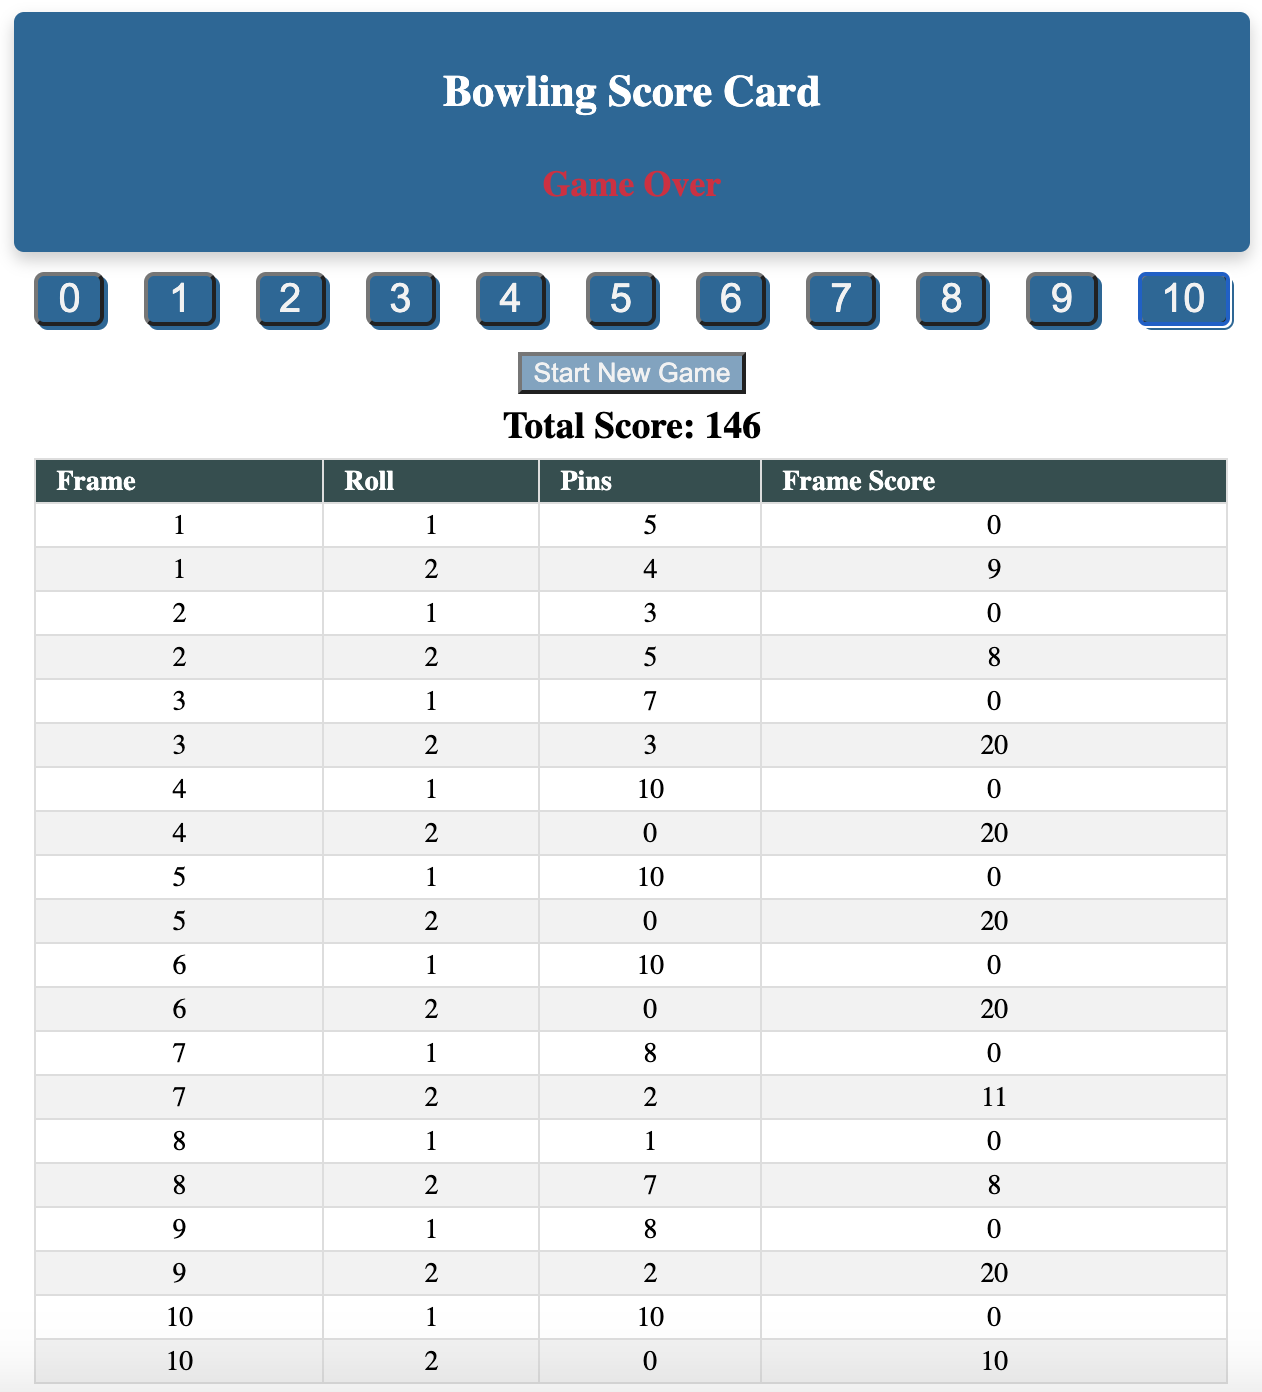
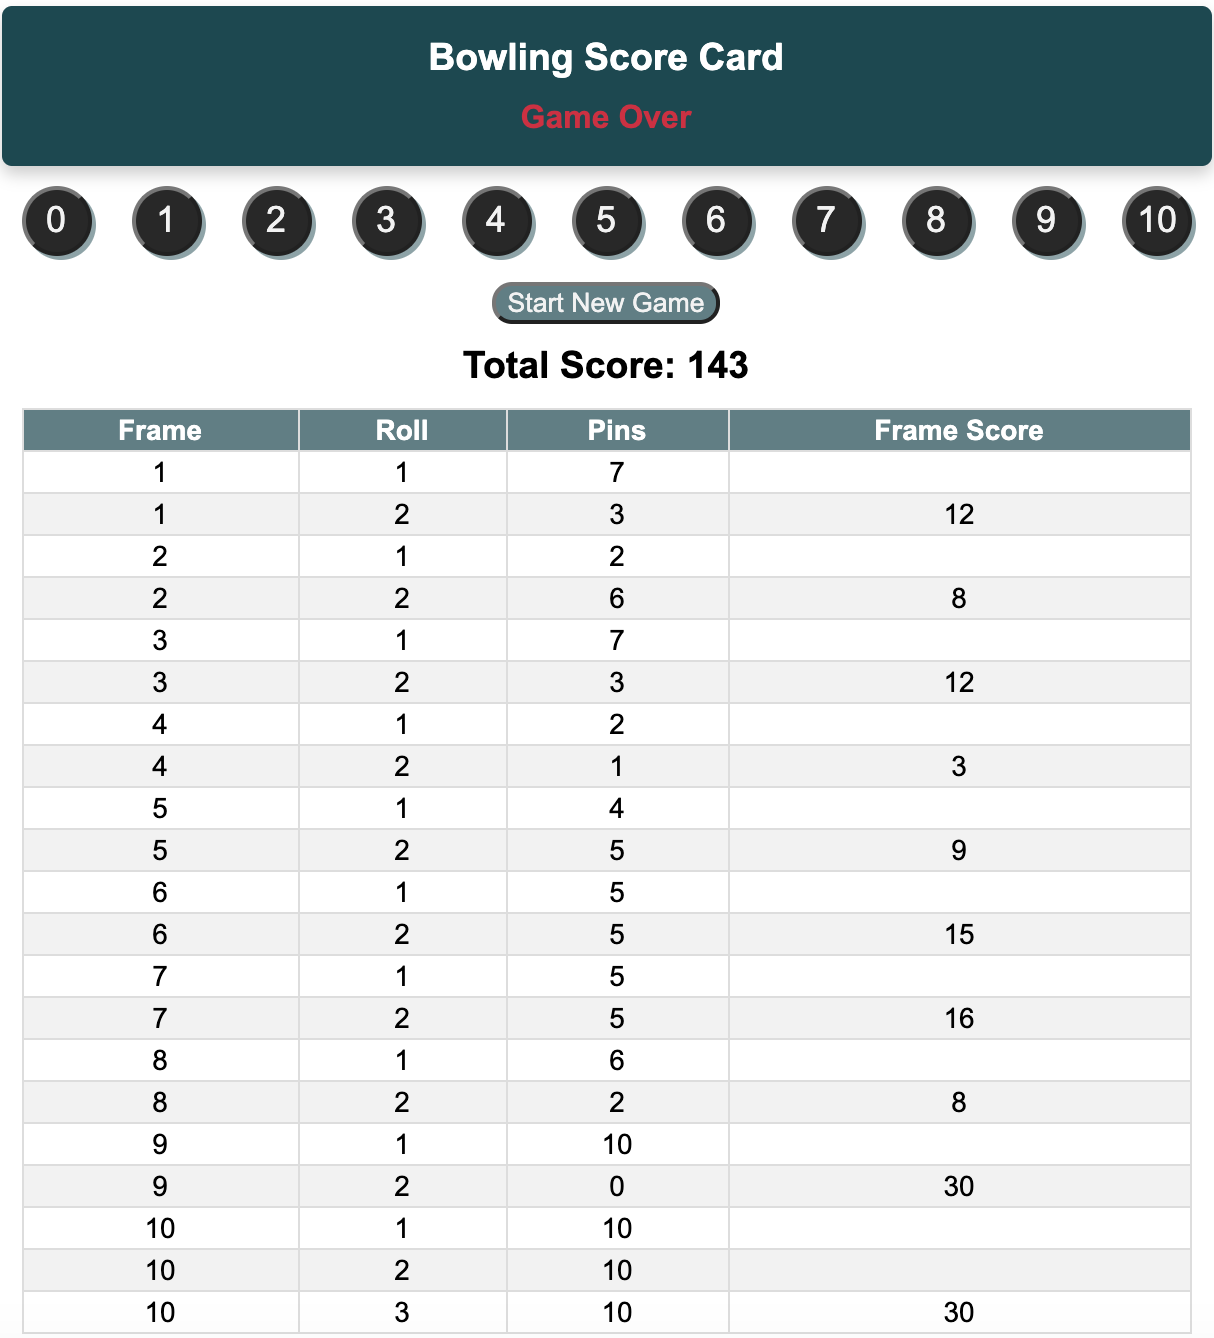
update css and readme

diff --git a/src/app/bowling-page/pipe/frame-format.pipe.spec.ts b/src/app/bowling-page/pipe/frame-format.pipe.spec.ts
@@ -19,11 +19,11 @@ describe('FrameFormatPipe', () => {
       const rolls: Roll[] = [{first: 9, second: 1}, {first: 2, second: 2}, {first: 7, second: 3}];
       const framesScore: number[] = [12, 4, 10];
       const expectedValue: ScoreBoard[] = [
-        {frameNumber: 1, roll: 1, pinsHit: 9, totalScore: 0},
+        {frameNumber: 1, roll: 1, pinsHit: 9, totalScore: null},
         {frameNumber: 1, roll: 2, pinsHit: 1, totalScore: 12},
-        {frameNumber: 2, roll: 1, pinsHit: 2, totalScore: 0},
+        {frameNumber: 2, roll: 1, pinsHit: 2, totalScore: null},
         {frameNumber: 2, roll: 2, pinsHit: 2, totalScore: 4},
-        {frameNumber: 3, roll: 1, pinsHit: 7, totalScore: 0},
+        {frameNumber: 3, roll: 1, pinsHit: 7, totalScore: null},
         {frameNumber: 3, roll: 2, pinsHit: 3, totalScore: 10},
       ]
       expect(pipe.transform(rolls, framesScore)).toEqual(expectedValue);

diff --git a/src/app/bowling-page/bowling-page.component.scss b/src/app/bowling-page/bowling-page.component.scss
@@ -1,21 +1,24 @@
+.bowling-page-container {
+  margin: 8px;
+}
+
 .card {
   width: 100%;
   box-shadow: 0 4px 8px 0 rgba(0, 0, 0, 0.2);
   transition: 0.3s;
   text-align: center;
-  background: rgba(19, 104, 153);
+  background: rgb(5, 73, 81);
   color: white;
   border-radius: 5px;
   margin-bottom: 10px;
 
   &:hover {
-    box-shadow: 0 8px 16px 0 rgba(0, 0, 0, 0.2);
+    box-shadow: 0 8px 16px 0 rgba(0, 0, 0, 0.6);
   }
 }
 
 .card-title {
-  font-weight: bold;
-  font-size: 22px;
+  margin: 10px 0 10px;
 }
 
 .card-body {
@@ -23,8 +26,7 @@
 }
 
 .meta-data {
-  font-size: 18px;
-  font-weight: bold;
+  margin: 10px 0 10px;
 }
 
 #new-game {
@@ -32,8 +34,9 @@
   margin-top: 10px;
 
   > button {
-    background: rgba(19, 104, 153, 0.6);
+    background: rgba(5, 73, 81, 0.7);
     color: rgba(242, 242, 242);
+    border-radius: 25px;
   }
 }
 

diff --git a/src/app/app.component.spec.ts b/src/app/app.component.spec.ts
@@ -20,17 +20,4 @@ describe('AppComponent', () => {
     const app = fixture.componentInstance;
     expect(app).toBeTruthy();
   });
-
-  // it(`should have as title 'Ten-Pin-Bowling'`, () => {
-  //   const fixture = TestBed.createComponent(AppComponent);
-  //   const app = fixture.componentInstance;
-  //   expect(app.title).toEqual('Ten-Pin-Bowling');
-  // });
-
-  // it('should render title', () => {
-  //   const fixture = TestBed.createComponent(AppComponent);
-  //   fixture.detectChanges();
-  //   const compiled = fixture.nativeElement;
-  //   expect(compiled.querySelector('.content span').textContent).toContain('Ten-Pin-Bowling app is running!');
-  // });
 });

diff --git a/src/app/bowling-page/bowling-page.component.html b/src/app/bowling-page/bowling-page.component.html
@@ -1,9 +1,9 @@
 <div class="bowling-page-container">
   <div class="card">
     <div class="card-body">
-      <p class="card-title">Bowling Score Card</p>
-      <p class="meta-data" [ngClass]="{'game-over': (frames.length + 1) > totalFrames}">
-        {{(frames.length + 1) <= totalFrames ? 'Frame: ' + (frames.length + 1) : 'Game Over'}}</p>
+      <h3 class="meta-data">Bowling Score Card</h3>
+      <h4 class="meta-data" [ngClass]="{'game-over': (frames.length + 1) > totalFrames}">
+        {{(frames.length + 1) <= totalFrames ? 'Frame: ' + (frames.length + 1) : 'Game Over'}}</h4>
     </div>
   </div>
     <app-pin [totalPins]="totalPins" (shot)="onShot($event)"

diff --git a/src/app/bowling-page/pin/pin.component.scss b/src/app/bowling-page/pin/pin.component.scss
@@ -1,17 +1,23 @@
 .pin-number {
-  background: rgba(19, 104, 153);
+  background: rgb(40, 40, 40);
   margin: 0 10px 3px 10px;
-  padding: 0 10px 0 10px;
-  font-size: 20px;
-  border-radius: 5px;
+  font-size: 18px;
   color: rgba(242, 242, 242);
-  box-shadow: 2px 2px rgba(19, 104, 153);
+  box-shadow: 2px 2px rgba(5, 73, 81, 0.5);
+  height: 35px;
+  width: 35px;
+  cursor: pointer;
+  border-radius: 50%;
 
   &:active {
-    background: burlywood;
+    background: #d2691e;
+  }
+
+  &:focus {
+    outline: none;
   }
 }
 
 button:disabled {
-  background: grey;
+  background: #808080;
 }

diff --git a/src/app/bowling-page/score-board/score-board.component.scss b/src/app/bowling-page/score-board/score-board.component.scss
@@ -24,14 +24,17 @@
   th {
     padding-left: 10px;
     padding-right: 10px;
-    text-align: left;
-    background-color: darkslategray;
+    background-color: rgba(5, 73, 81, 0.7);
     color: white;
+  }
+
+  &:hover {
+    box-shadow: 0 8px 16px 0 rgba(0, 0, 0, 0.6);
   }
 }
 
 #total-score {
-  margin: 5px 0 5px 0;
+  margin: 10px 0 10px 0;
   text-align: center;
 }
 

diff --git a/src/app/bowling-page/pipe/frame-format.pipe.ts b/src/app/bowling-page/pipe/frame-format.pipe.ts
@@ -18,7 +18,7 @@ export class FrameFormatPipe implements PipeTransform {
 
     value.forEach((rolls, index) => {
       const frameNumber = index + 1;
-      let totalScore = 0;
+      let totalScore = null;
       if (rolls.first != null) {
         formattedValues.push({frameNumber, roll: 1, pinsHit: rolls.first, totalScore})
       }

diff --git a/src/styles.scss b/src/styles.scss
@@ -1,3 +1,6 @@
 /* You can add global styles to this file, and also import other style files */
 
-
+body {
+  margin: 0;
+  font-family: Arial, Helvetica, sans-serif;
+}

diff --git a/src/app/app.component.ts b/src/app/app.component.ts
@@ -6,5 +6,4 @@ import { Component } from '@angular/core';
   styleUrls: ['./app.component.scss']
 })
 export class AppComponent {
-  title = 'Ten-Pin-Bowling';
 }

diff --git a/src/app/app.component.scss b/src/app/app.component.scss
@@ -1,4 +1,7 @@
 .main-page {
+  height: 100vh;
   display: flex;
   justify-content: center;
 }
+
+

diff --git a/README.md b/README.md
@@ -1,11 +1,17 @@
-# TenPinBowling
-* A game consists of ten frames. Frame 1-9 are composed of two rolls. Frame 10 can be composed of up to three rolls 
+# Bowling Score Calculator
+
+A bowling score calculator application written in Javascript. 
+This score calculator allows for a swift and dynamic calculation of score for each of the frames of a bowling game. 
+
+### How does it work ? 
+
+* The game consists of ten frames. Frame 1-9 are composed of two rolls. Frame 10 can be composed of up to three rolls 
 depending on if the first rolls in the frame is a strike or a spare. 
 * Each frame can have one of three marks: 
   * Strike: all 10 pins where knocked down with the first roll.
   * Spare: all 10 pins where knocked down using two rolls.
-  * Open: some pins where left standing after the frame was completed.
-* When calculating the total score, the sum of the score for each frame is used.
+  * Open: some pins where left standing after the frame was complete.
+* When calculating the total score, the sum of the score for each frame is use.
   * For an open frame the score is the total number of pins knocked down.
   * For a strike, the score is 10 + the sum of the two rolls in the following frame.
   * For a spare, the score is 10 + the number of pins knocked down in the first roll of the following frame. 
@@ -17,7 +23,7 @@ The tenth frame may composed of up to three rolls: the bonus roll(s) following a
  * NGRX
  * Nodejs
  
- **Note**: Unit test of the components are perform using default Jasmine test framework provided by angular cli.
+ **Note**: Unit test of the components are perform using default Jasmine test framework provided by Angular CLI.
  
 ## Project Structure
 
@@ -25,7 +31,7 @@ The tenth frame may composed of up to three rolls: the bonus roll(s) following a
     
   **BowlingPageComponent** : This is the container for child components. It is responsible for changing state of the game and delegating inputs to the child components. 
   
-  **PinComponent** : This component provides users to input number of pin knocked down. The inputs from users are send to BowlingPageComponent using event emitters.
+  **PinComponent** : This component allows users to input number of pin knocked down. The inputs from users are send to BowlingPageComponent using event emitters.
  
   **ScoreBoardComponent**: This component receives inputs from BowlingPageComponent to display total score and, the score of each frame. It uses **FrameFormat** custom pipe to format the scores for showing in html table. 
   
@@ -33,9 +39,29 @@ The tenth frame may composed of up to three rolls: the bonus roll(s) following a
   
   
 ## Compile, Run & Test
-
+   ```
     ng serve
     ng test 
-    
+   ```  
+
 ### Example Score Board   
  ![Image](src/assets/images/scoreboard.png)
+ 
+### Example Test
+
+   ```
+         it('#isSpare should be true when all 10 pins where knocked down using two rolls', () => {
+            const roll: Roll = {first: 6, second: 4};
+            expect(calculator.isSpare(roll)).toBeTrue();
+          });
+        
+          it('#isOpen should be true when some pins where left standing after the frame was completed', () => {
+            const roll: Roll = {first: 2, second: 1};
+            expect(calculator.isOpen(roll)).toBeTrue();
+          });
+        
+          it('for an open frame, #calculate should return total score as sum number of pins knocked down in current frame', () => {
+            const roll: Roll[] = [{first: 1, second: 4}, {first: 2, second: 2}];
+            expect(calculator.calculate(roll)).toEqual({totalScore: 9, frameScores: [5, 4]});
+          });
+   ```  
